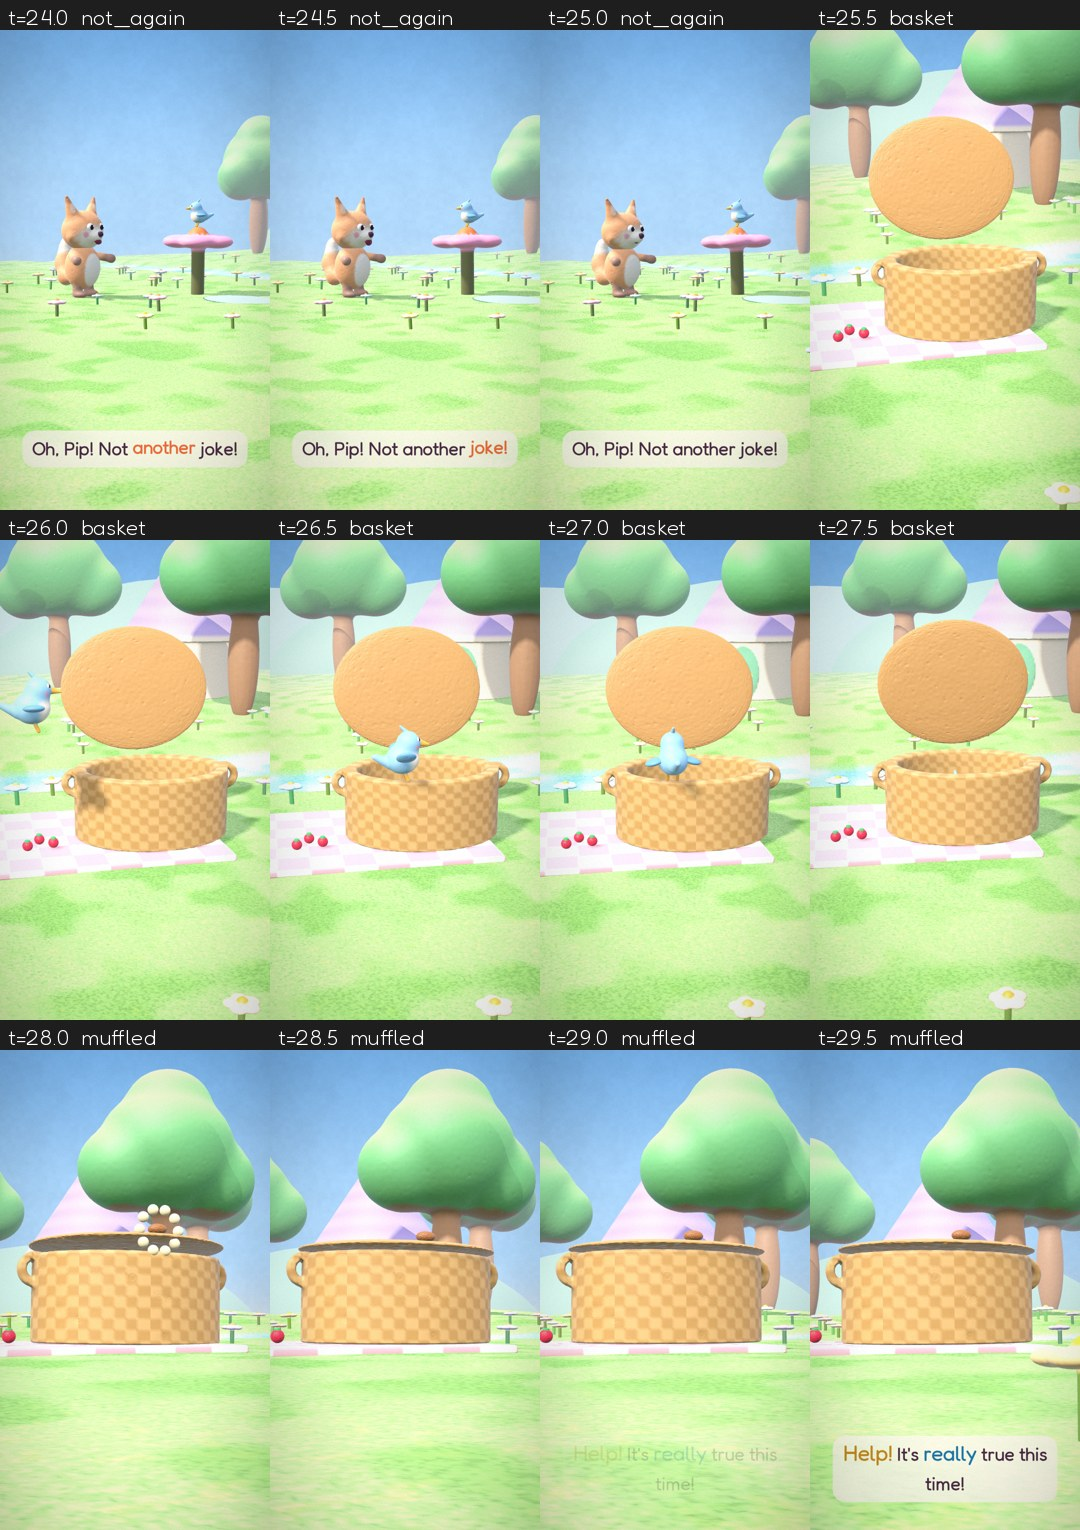
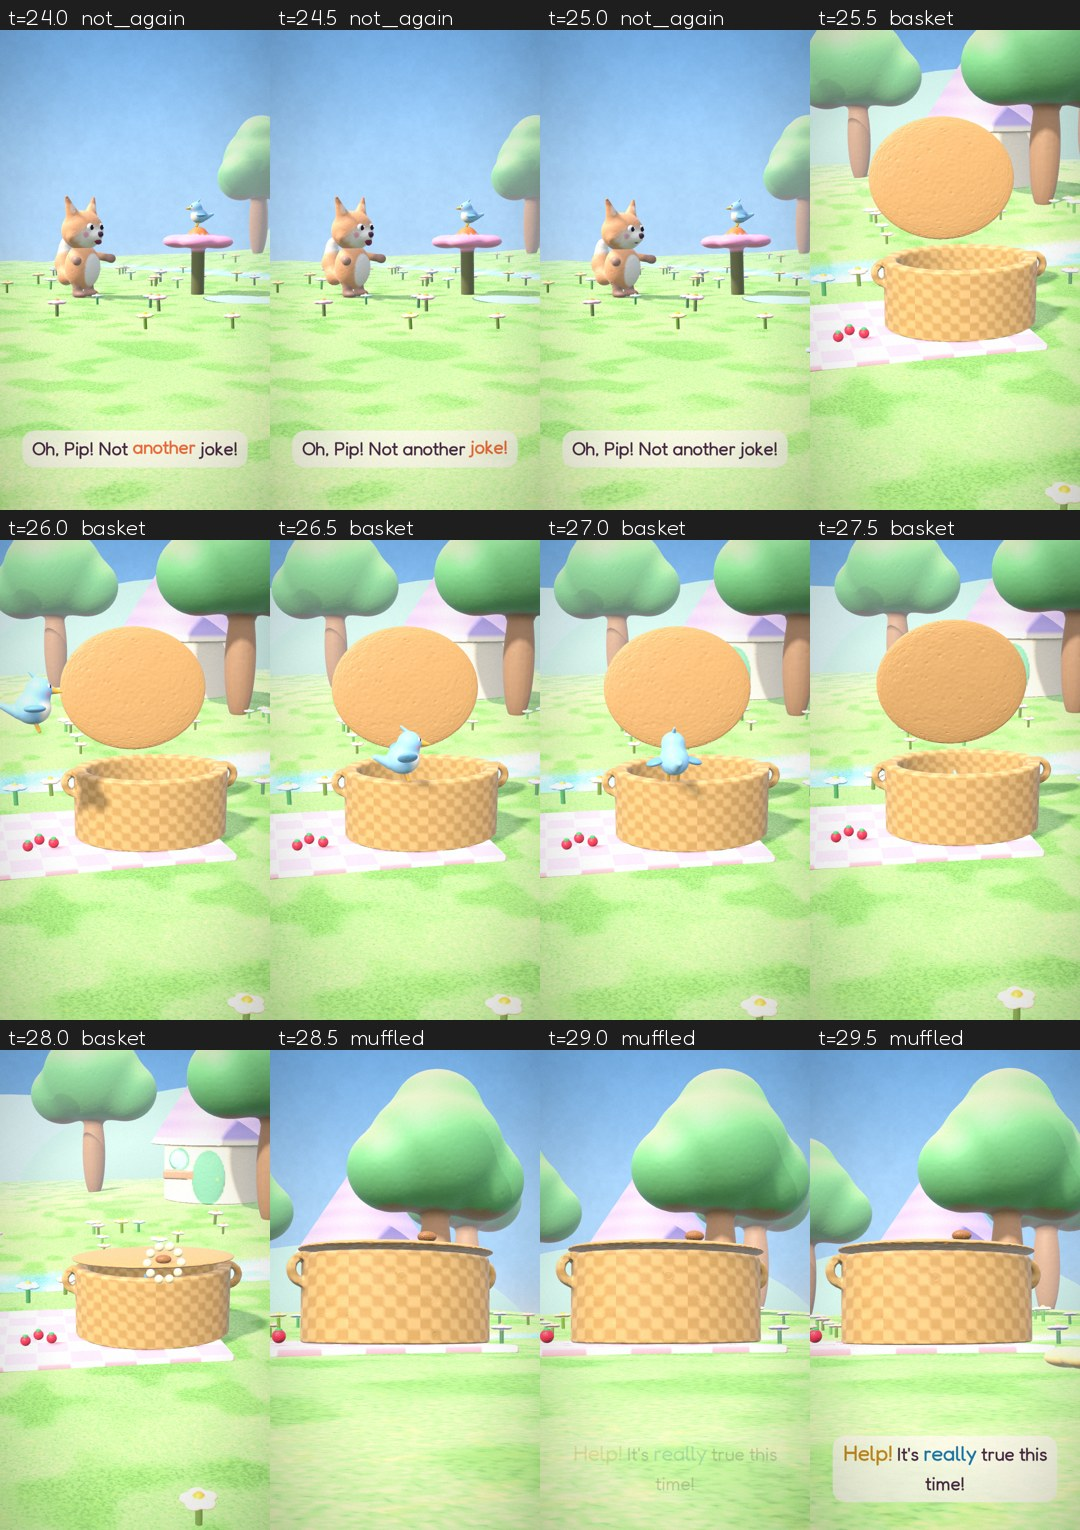
Fable 8: round 5 fixes (splash and giggle cut on the action, earlier spin, basket shot holds through the flop)
Claude-Session: https://claude.ai/code/session_015sJeG8C6rLnCDSthJi3ZZJ

diff --git a/batches/01-fables-friendship/fable-08-pip-who-cried-help/code/render.py b/batches/01-fables-friendship/fable-08-pip-who-cried-help/code/render.py
@@ -132,7 +132,7 @@ def tumble(t):
                 st["pitch"] = 1.45; st["y"] = -0.45; st["sq"] = -0.1 * math.exp(-d * 6) * math.cos(d * 20)
                 st["arms"] = [[1.4, 2.4], [1.4, 2.4]]; st["tail"] = 0.6 * math.sin(d * 8)
     elif n == "giggle":                                                  # lies in the puddle, then pushes himself up
-        a = SH[n][0]; up = ease(clampu(t, a + 1.0, a + 2.0))
+        a = SH[n][0]; up = ease(clampu(t, a + 0.2, a + 1.1))
         st["x"], st["z"] = FLOPPT; st["yaw"] = RUN_YAW
         st["pitch"] = 1.45 * (1 - up); st["y"] = -0.45 * (1 - up)
         st["arms"] = lerp([[1.4, 2.4], [1.4, 2.4]], [[0.3, 0.2], [0.3, 0.2]], up).tolist()
@@ -253,7 +253,7 @@ def pip_state(t, st, mats):
         if n == "giggle": yaw = math.radians(-75)                      # giggles to us, Tumble behind him
         if n == "giggle" and SH[n][0] + 0.2 < t < SH[n][0] + 1.6:        # giggle hop
             d = (t - SH[n][0] - 0.2) % 0.45; p = PIP_FLOWER + np.array([0, 0.08 * math.sin(math.pi * d / 0.45), 0])
-            return p, yaw, False, 0.0, d < 0.03 or d > 0.42, giggle
+            return p, yaw, False, 0.0, p[1] - PIP_FLOWER[1] < 0.005, giggle
         return PIP_FLOWER, yaw, False, 0.0, True, ex
     if n == "basket":                                                   # flies to the basket, peeks, hops in
         if t < T.P_FLY: return PIP_FLOWER, look(PIP_FLOWER, RIM_FRONT), False, 0.0, True, {}
@@ -320,7 +320,7 @@ def camera(t):
         return fit_cam(np.array([lerp(FLOPPT[0], T_HOME[0], 0.5), 1.1, lerp(FLOPPT[1], T_HOME[1], 0.5)]), 25, 8, 2.0, 1.6)
     if name == "rush2":                                                 # wide side, tracking the leap, the skid and the spin
         cx = lerp(T_HOME[0] - 0.8, SPINPT[0] + 0.9, ease(clampu(t, T.RUN2, T.SPIN + 0.3)))
-        return fit_cam(np.array([cx, 1.15, -0.45]), 28, 8, 2.8, 1.7)
+        return fit_cam(np.array([cx, 1.15, -0.45]), 28, 8, 2.8, 2.2 if WIDE else 1.7)
     if name == "not_again":                                             # two-shot, Tumble and Pip on the flower
         c = lerp(np.array([SPINPT[0], 1.25, SPINPT[1]]), PIP_FLOWER, 0.45)
         return fit_cam(c, side_on_yaw(np.array([SPINPT[0], 0, SPINPT[1]]), PIP_FLOWER, 100) + lerp(-4, 4, e), 4, 3.0, 1.9)
@@ -387,7 +387,7 @@ def build_draws(t):
 
 def ground_objs(t):
     n = T.shot_at(t)[1]
-    if (n in ("splash", "giggle") or (n == "rush" and t > T.TRIP)) and not (n == "giggle" and t > SH["giggle"][0] + 2.0): return ("pip",)
+    if (n in ("splash", "giggle") or (n == "rush" and t > T.TRIP)) and not (n == "giggle" and t > SH["giggle"][0] + 1.2): return ("pip",)
     return ("fox", "pip")
 HOOKS.update(build=build_draws, camera=camera, tumble=tumble, ground_objs=ground_objs,
              qa_ignore={("lid", "fox"), ("fox", "lid")})                  # the lid in his paws while he lifts it

diff --git a/batches/01-fables-friendship/fable-08-pip-who-cried-help/code/timeline.py b/batches/01-fables-friendship/fable-08-pip-who-cried-help/code/timeline.py
@@ -94,7 +94,7 @@ SB_SPLIT = _sb[0] + 1.0 * BAR                  # Pip giggles, then Tumble drips 
 _lpa = line("Problem A")
 RUN2 = (word_times("tumble", "Problem A") or [_pa[0] + 0.9])[0]          # sets off when Pip calls his name
 LEAP2 = (word_times("hurry", "Problem A") or [_pa[0] + 2.0])[0] + 0.2    # jumps the puddle on the first "hurry"
-SPIN = LEAP2 + 1.6                             # skids past the flower and spins
+SPIN = LEAP2 + 1.0                             # skids past the flower and spins
 PB_SPLIT = max(line("Problem B")["t1"] + 0.4, _pb[0] + 2.6)               # dizzy line, then the basket
 P_FLY = PB_SPLIT + 0.1                         # Pip flutters to the basket rim
 P_RIM = P_FLY + 1.2
@@ -112,9 +112,9 @@ LOWER = SORRY + 0.15                           # lid goes back down gently
 CUDDLE = SORRY + 0.45                           # Pip hops onto his paws for the hug
 HIGH_FIVE = _c[1] - 0.9
 SHOTS = [(0.0, _h[1], "hook_flower"), (_s[0], _s[1], "title_wide"), (_sa[0], SA_SPLIT, "rush"),
-         (SA_SPLIT, _sa[1], "splash"), (_sb[0], SB_SPLIT, "giggle"), (SB_SPLIT, _sb[1], "drip"),
-         (_pa[0], _pa[1], "rush2"), (_pb[0], PB_SPLIT, "not_again"), (PB_SPLIT, _pb[1], "basket"),
-         (_tw[0], TW_SPLIT1, "muffled"), (TW_SPLIT1, TW_SPLIT2, "is_it_a_joke"), (TW_SPLIT2, _tw[1], "rescue"),
+         (SA_SPLIT, FLOP + 0.6, "splash"), (FLOP + 0.6, SB_SPLIT, "giggle"), (SB_SPLIT, _sb[1], "drip"),
+         (_pa[0], _pa[1], "rush2"), (_pb[0], PB_SPLIT, "not_again"), (PB_SPLIT, LID_SHUT + 0.3, "basket"),
+         (LID_SHUT + 0.3, TW_SPLIT1, "muffled"), (TW_SPLIT1, TW_SPLIT2, "is_it_a_joke"), (TW_SPLIT2, _tw[1], "rescue"),
          (_m[0], _m[1], "moral"), (_c[0], _c[1], "chorus"), (_bt[0], DURATION + 0.1, "button_crane")]
 def shot_at(t):
     for i, (a, b, n) in enumerate(SHOTS):
